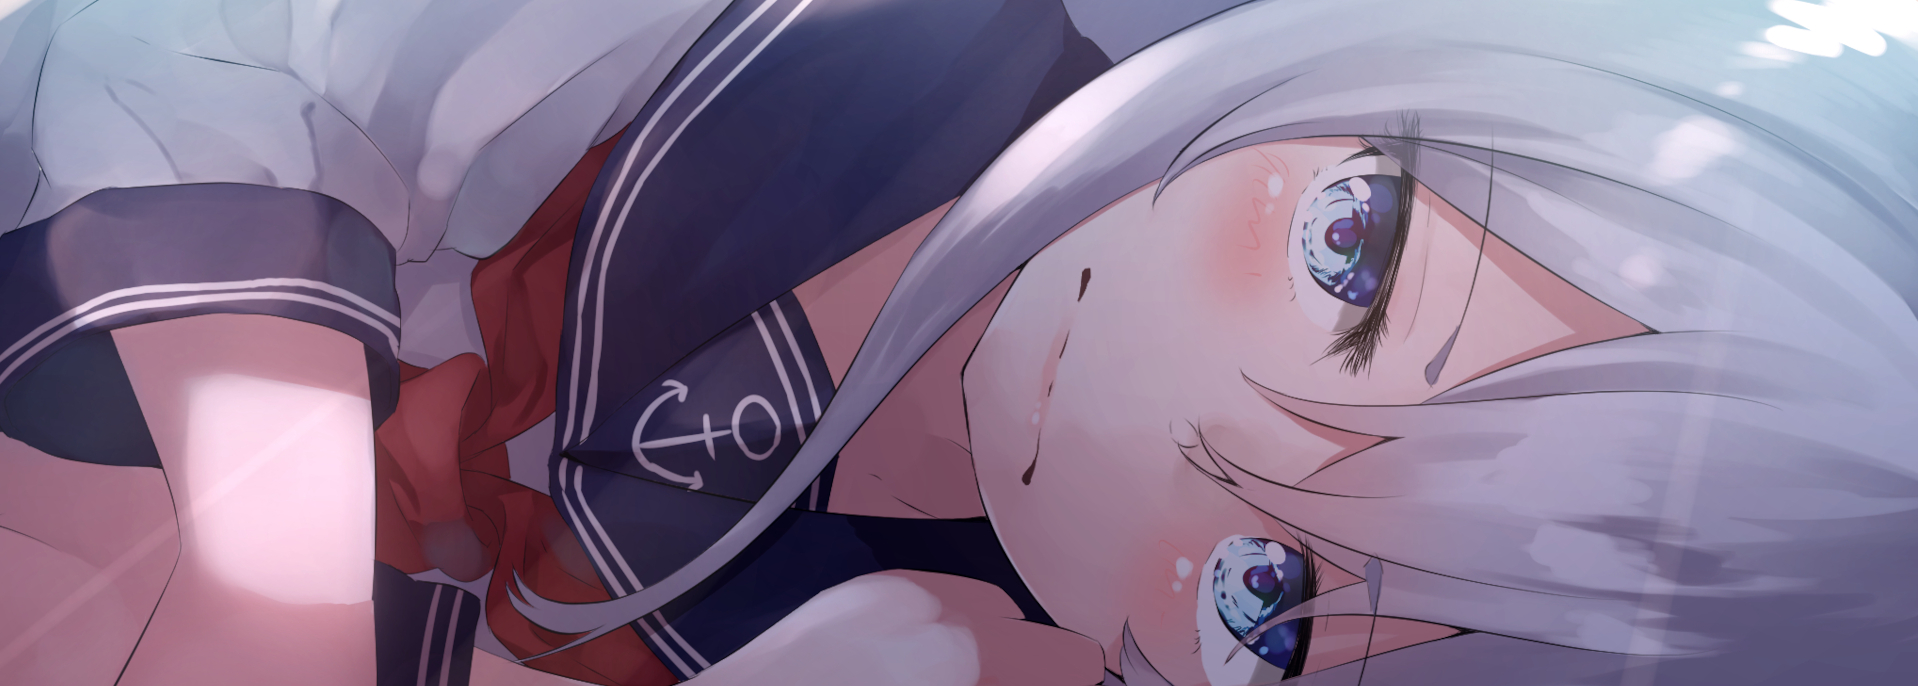
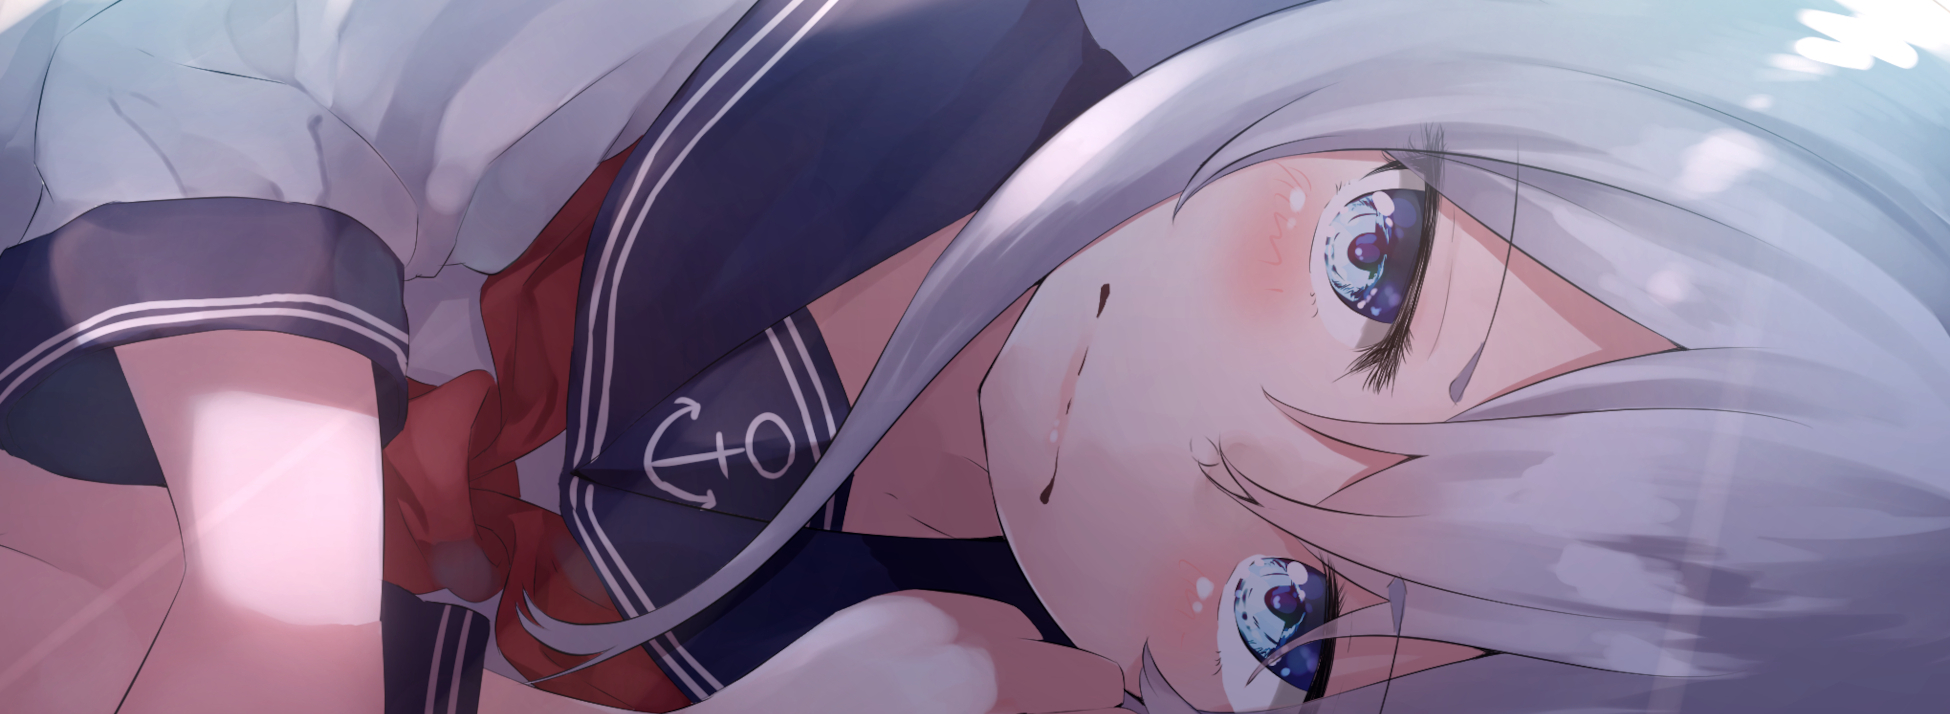
Enlargened image

diff --git a/index.html b/index.html
@@ -8,15 +8,16 @@
 	</head>
 
 	<body>
+		<header>
 		<div class="Front-Hibiki">
-			<img src="pictures/hibikiCropped.jpg" alt="hibiki" style="width:100%;">
+					<img src="pictures/hibikiCropped.jpg" alt="hibiki" style="width:100%;">
 		</div>
 			<div class="Front-Text">
 			<a href="https://osu.ppy.sh/users/14296379" target="_blank">osu!</a>   
 			<a href="https://www.youtube.com/channel/UC8D60JEua4yDbg85M1HIs9Q" targer="_blank">Youtube</a>   
 			<a href="https://github.com/raynei86" target="_blank">GitHub</a> 
 			</div>
-
+		</header>
 	</body>
 
 	</html>

diff --git a/style.css b/style.css
@@ -4,11 +4,9 @@ body, html {
 }
 
 .Front-Hibiki {
-position: relative;
-color: white;
-text-align: center;
+	height: 100%;
 
-filter: blur(3px) brightness(50%);
+  filter: blur(3px) brightness(50%);
 }
 
 .Front-Text {
